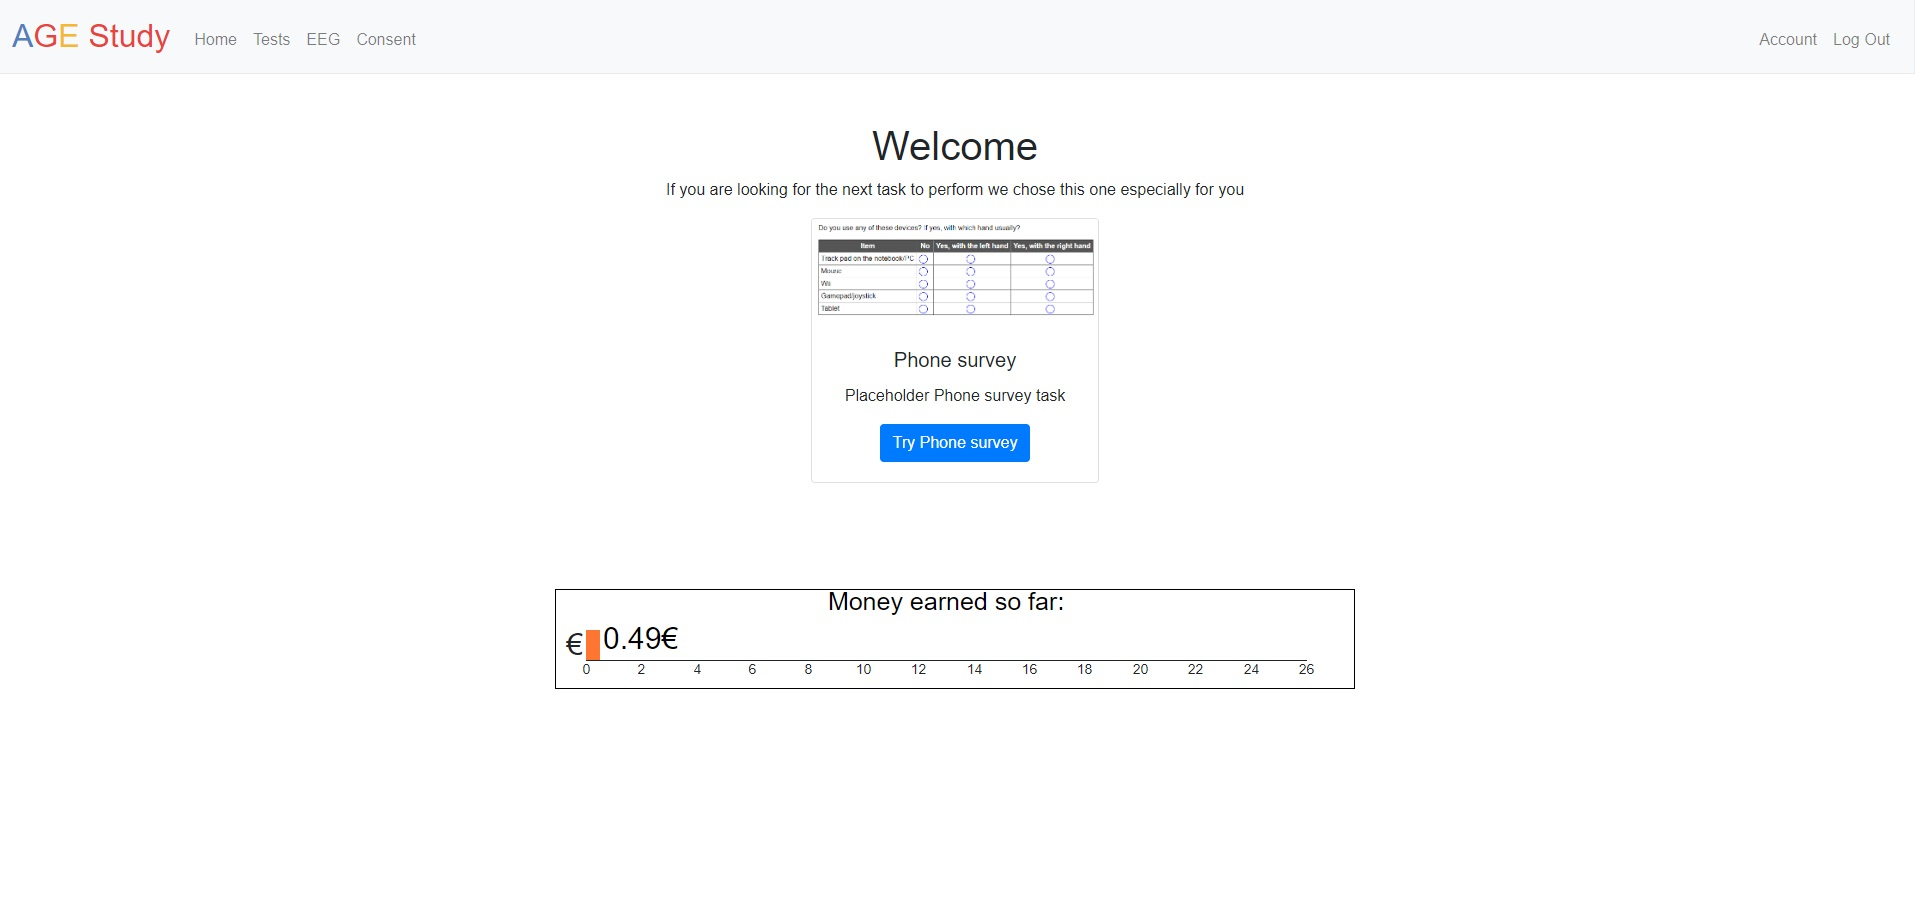
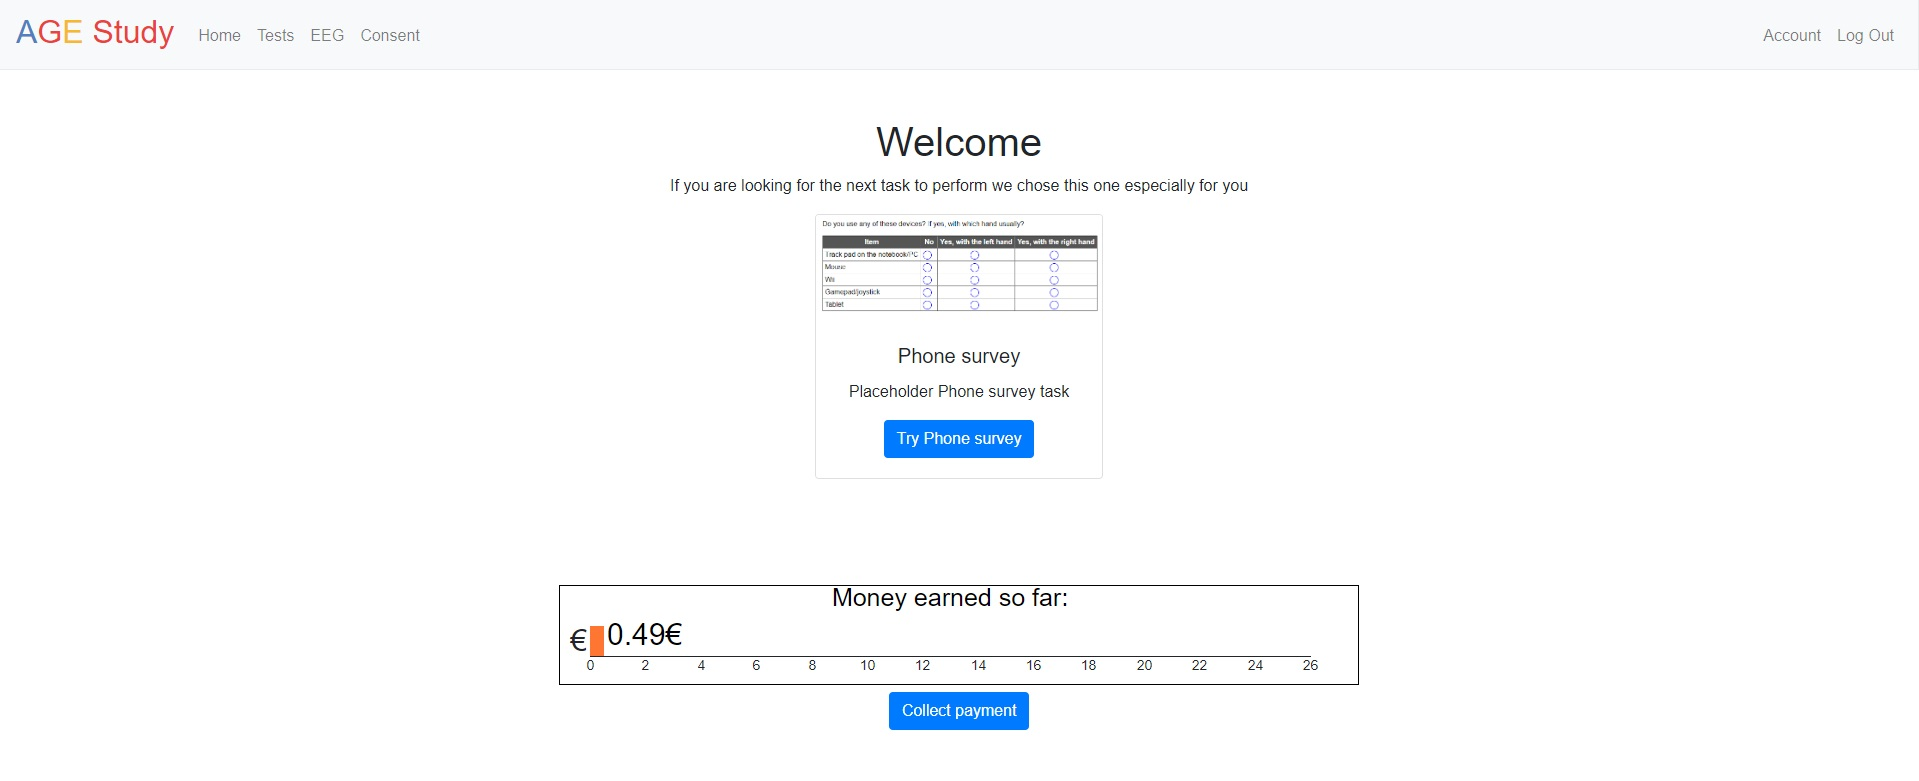
payment collection (button) implemented

diff --git a/app/templates/collected.html b/app/templates/collected.html
@@ -1,0 +1,9 @@
+{% extends "layout.html" %}
+
+{% block title %}
+Collection
+{% endblock %} {% block main %}
+
+<h3> We will contact you to set up an appointment to collect the following ammount: {{money_earned}} €.</h3>
+<p> Do not be alarmed, when you go back to the money tab it will be at a price of 0. This does <b>not</b> mean you will not receive the ammount you earned. <p>
+{% endblock %}

diff --git a/app/templates/home.html b/app/templates/home.html
@@ -40,5 +40,9 @@ if its false the div is not show there are no recomendations-->
 {% if user_type %}
 <div class="price" id="price" value="{{price}}" name="price"></div>
 <div id=barChart></div>
+
+<form action="/collection" method="post">
+<button id="collection" class="btn btn-primary" type="submit">Collect payment</button>
+</form>
 {% endif %}
 {% endblock %}

diff --git a/app/application.py b/app/application.py
@@ -64,7 +64,7 @@ def task_completed(task_id):
     opened_task = newest_task[0]["TASK_ID"]
     if opened_task == task_id:
         update = f"UPDATE TRACKED_TASK SET status = 1 WHERE time_exec= (SELECT MAX(time_exec) FROM TRACKED_TASK WHERE USER_ID = {id});"
-        insert = f"INSERT INTO TASK_COMPLETED (user_id, task_id) VALUES ({id}, {task_id});"
+        insert = f"INSERT INTO TASK_COMPLETED (user_id, task_id, collect) VALUES ({id}, {task_id}, 1);"
         db.execute(update, 0)
         db.execute(insert, 0)
 
@@ -185,7 +185,7 @@ def calculate_money():
     Calculate the amount of money the user has
     """
     id = session['user_id']
-    select = f"SELECT * FROM TASK_COMPLETED WHERE USER_ID = {id}"
+    select = f"SELECT * FROM TASK_COMPLETED WHERE USER_ID = {id} AND COLLECT NOT IN ( 0 )"
     completed_tasks = db.execute(select, 1)
     money_earned = 0
     for i in completed_tasks:
@@ -518,3 +518,33 @@ def home():
         recomendation = False
         task = {"img":"", "alt":"", "title":"",  "text" : "", "link" : "", "button_text": ""}
     return render_template("home.html", price=price, user_type=user_type, recomendation=recomendation, img=task["img"], alt=task["alt"], title=task["title"], text=task["text"], link=task["link"], button_text=task["button_text"])
+
+@app.route("/collection", methods=["POST"])
+@login_required
+def collection():
+    """
+    Button to collect payment
+    """
+    collection = request.form.get("collection")
+    id = session["user_id"]
+    # update the collection to 0 which means that the user has/will collect the money_earned
+    # otherwise collect is 1
+    update = f"UPDATE TASK_COMPLETED SET COLLECT=0 WHERE USER_ID = {id}"
+    db.prepare(update, (id,), 0)
+
+    # select the user info
+    select = f"SELECT * FROM SESSION_INFO WHERE USER_ID = {id}"
+    rows = db.prepare(select, (id,), 1)
+    money_earned = calculate_money()
+
+    # send_email with the users info to our email to contact them about participating
+    # email contains username, email, usertype, user_id and the ammount to be collect
+    email_r  = open("email.txt", "r")
+    email = email_r.read()
+    pasw_r  = open("pass.txt", "r")
+    pasw = pasw_r.read()
+    message = 'Subject: Payment collection \n\n The following participant wants to collect their payment for the study' + '\n username: ' + str(rows[0]['USER_NAME']) + "\n email: " + str(rows[0]['EMAIL']) + "\n user_id: " + str(rows[0]['USER_ID']) + "\n user_type: " + str(rows[0]['USER_TYPE']) + "\n ammount to collect: " + str(money_earned)
+    send_email(email, pasw, message)
+
+    # render a thank you page
+    return render_template("collected.html", money_earned=money_earned)

diff --git a/app/README.md b/app/README.md
@@ -72,7 +72,7 @@ If not locked tasks are recommended in the above order.
 The home page also contains a money tab which shows the user the amount of money they have earned so far.
 ![home](static/images/home.jpg)
 
-TODO: Collection of the money_earned!!
+TODO: Collection of the money_earned on admin page 
 
 # Tests
 The task tab contains 5 tasks [corsi, N-back, task switching, sf-36 and phone survey]. The cards contain a link to psytoolkit for each task.
